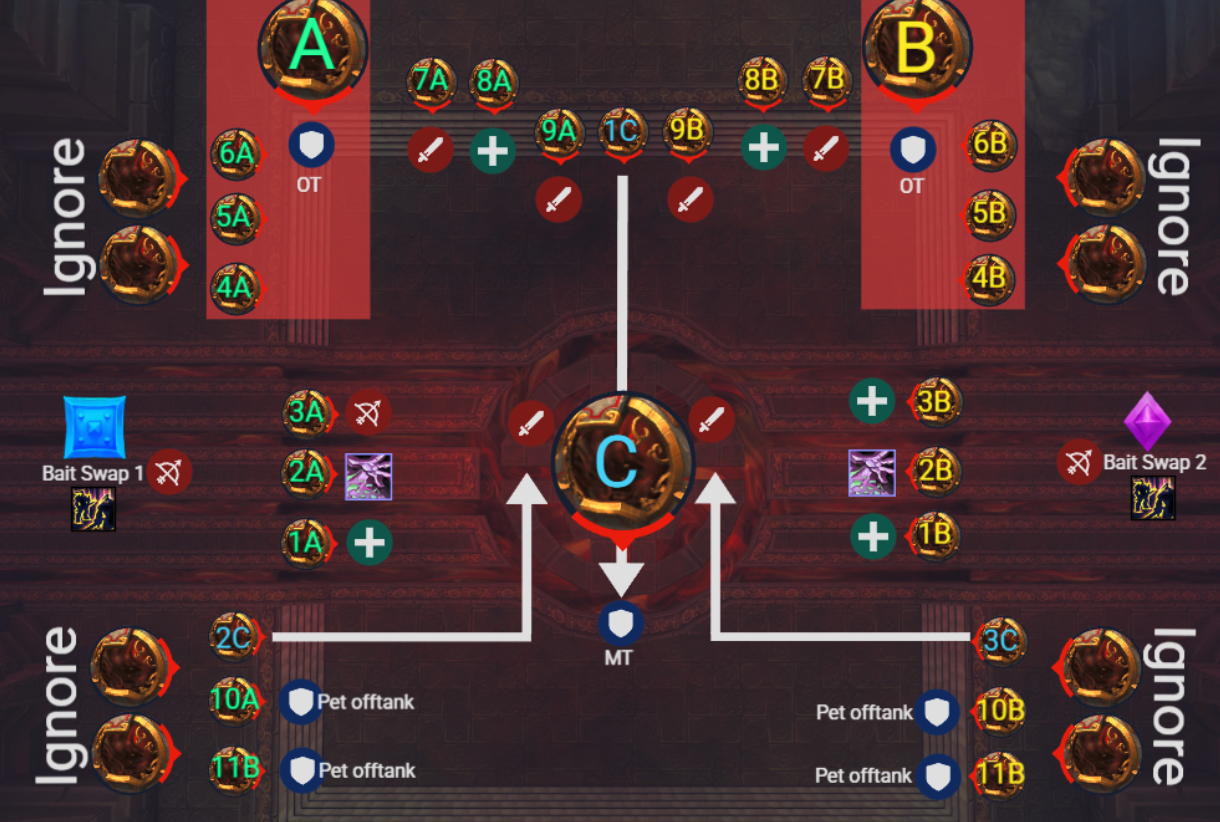
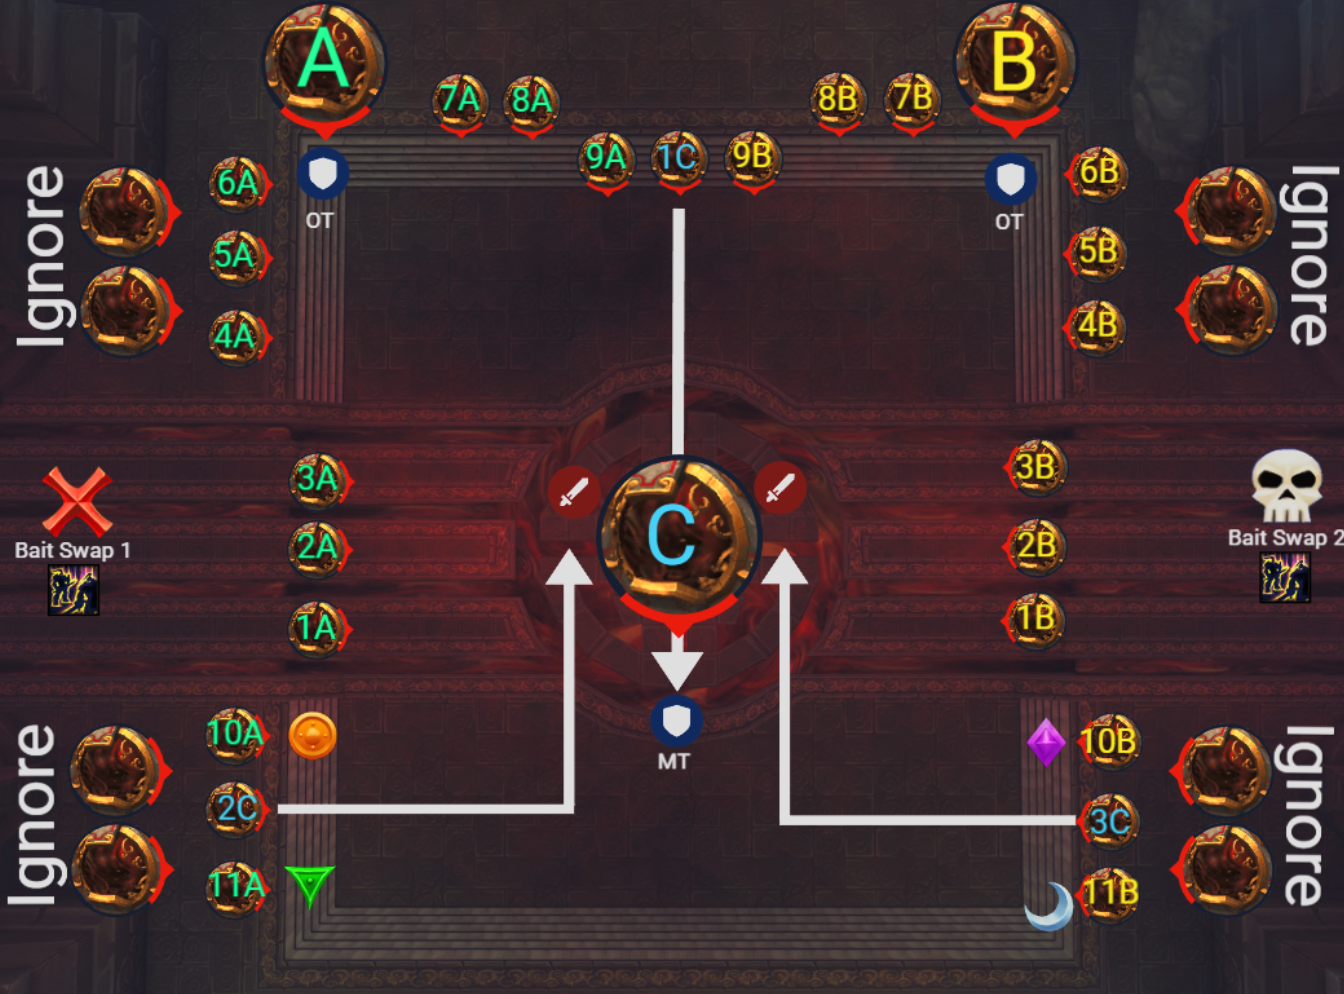
Animus und Qon Anpassung

diff --git a/throneofthunder/iron-qon.html b/throneofthunder/iron-qon.html
@@ -148,6 +148,7 @@
                                 <select class="assignment-select text-xs w-full" data-assignment-id="qon-soak1-2" data-assignment-pool="qon_soak_team"></select>
                                 <select class="assignment-select text-xs w-full" data-assignment-id="qon-soak1-3" data-assignment-pool="qon_soak_team"></select>
                                 <select class="assignment-select text-xs w-full" data-assignment-id="qon-soak1-4" data-assignment-pool="qon_soak_team"></select>
+                                <select class="assignment-select text-xs w-full" data-assignment-id="qon-soak1-5" data-assignment-pool="qon_soak_team"></select>
                             </div>
                         </div>
 
@@ -159,6 +160,7 @@
                                 <select class="assignment-select text-xs w-full" data-assignment-id="qon-soak2-2" data-assignment-pool="qon_soak_team"></select>
                                 <select class="assignment-select text-xs w-full" data-assignment-id="qon-soak2-3" data-assignment-pool="qon_soak_team"></select>
                                 <select class="assignment-select text-xs w-full" data-assignment-id="qon-soak2-4" data-assignment-pool="qon_soak_team"></select>
+                                <select class="assignment-select text-xs w-full" data-assignment-id="qon-soak2-5" data-assignment-pool="qon_soak_team"></select>
                             </div>
                         </div>
                     </div>
@@ -174,86 +176,146 @@
                     </ul>
                 </div>
 <div class="assignment-block">
-    <div class="flex justify-between items-center border-b border-slate-600 mb-2 pb-1">
-        <h4 class="text-lg font-bold text-yellow-400">✨ Positionierung (17 Spieler)</h4>
+    <div class="flex justify-between items-center border-b border-slate-600 mb-4 pb-2">
+        <h4 class="text-lg font-bold text-yellow-400">✨ Positionierung (Ranged & Healer)</h4>
+        <span class="text-xs text-gray-400">World Marker Gruppen (2 Spieler)</span>
     </div>
     
-    <div class="bg-slate-700 border border-slate-600 rounded-lg overflow-hidden">
-        <div class="grid grid-cols-1 md:grid-cols-2 lg:grid-cols-3 gap-px bg-slate-600">
-            
-            <div class="bg-slate-800 hover:bg-slate-750 p-1.5 flex items-center gap-2">
-                <span class="text-gray-500 font-mono text-xs w-4 text-right">1</span> 
-                <select class="assignment-select text-xs w-full border-none bg-slate-900/50" data-assignment-id="qon_pos_1" data-assignment-pool="twins_celestials"></select>
+    <div class="grid grid-cols-1 md:grid-cols-2 lg:grid-cols-4 gap-3 mb-6">
+        
+        <div class="bg-slate-700/40 rounded border border-gray-400/50 p-2">
+            <div class="text-xs font-bold text-gray-200 mb-1 flex items-center gap-2 border-b border-gray-600/50 pb-1">
+                <img src="raidicons/Moon.png" class="w-4 h-4 shadow-sm" alt="Moon">
+                R1 (Mond)
             </div>
-            <div class="bg-slate-800 hover:bg-slate-750 p-1.5 flex items-center gap-2">
-                <span class="text-gray-500 font-mono text-xs w-4 text-right">2</span> 
-                <select class="assignment-select text-xs w-full border-none bg-slate-900/50" data-assignment-id="qon_pos_2" data-assignment-pool="twins_celestials"></select>
+            <div class="space-y-1">
+                <select class="assignment-select text-xs w-full border-none bg-slate-900/60" data-assignment-id="qon_pos_1" data-assignment-pool="qon_ranged"></select>
+                <select class="assignment-select text-xs w-full border-none bg-slate-900/60" data-assignment-id="qon_pos_2" data-assignment-pool="qon_ranged"></select>
             </div>
-            <div class="bg-slate-800 hover:bg-slate-750 p-1.5 flex items-center gap-2">
-                <span class="text-gray-500 font-mono text-xs w-4 text-right">3</span> 
-                <select class="assignment-select text-xs w-full border-none bg-slate-900/50" data-assignment-id="qon_pos_3" data-assignment-pool="twins_celestials"></select>
-            </div>
-            <div class="bg-slate-800 hover:bg-slate-750 p-1.5 flex items-center gap-2">
-                <span class="text-gray-500 font-mono text-xs w-4 text-right">4</span> 
-                <select class="assignment-select text-xs w-full border-none bg-slate-900/50" data-assignment-id="qon_pos_4" data-assignment-pool="twins_celestials"></select>
-            </div>
-            <div class="bg-slate-800 hover:bg-slate-750 p-1.5 flex items-center gap-2">
-                <span class="text-gray-500 font-mono text-xs w-4 text-right">5</span> 
-                <select class="assignment-select text-xs w-full border-none bg-slate-900/50" data-assignment-id="qon_pos_5" data-assignment-pool="twins_celestials"></select>
-            </div>
-            <div class="bg-slate-800 hover:bg-slate-750 p-1.5 flex items-center gap-2">
-                <span class="text-gray-500 font-mono text-xs w-4 text-right">6</span> 
-                <select class="assignment-select text-xs w-full border-none bg-slate-900/50" data-assignment-id="qon_pos_6" data-assignment-pool="twins_celestials"></select>
-            </div>
-
-            <div class="bg-slate-800 hover:bg-slate-750 p-1.5 flex items-center gap-2">
-                <span class="text-gray-500 font-mono text-xs w-4 text-right">7</span> 
-                <select class="assignment-select text-xs w-full border-none bg-slate-900/50" data-assignment-id="qon_pos_7" data-assignment-pool="twins_celestials"></select>
-            </div>
-            <div class="bg-slate-800 hover:bg-slate-750 p-1.5 flex items-center gap-2">
-                <span class="text-gray-500 font-mono text-xs w-4 text-right">8</span> 
-                <select class="assignment-select text-xs w-full border-none bg-slate-900/50" data-assignment-id="qon_pos_8" data-assignment-pool="twins_celestials"></select>
-            </div>
-            <div class="bg-slate-800 hover:bg-slate-750 p-1.5 flex items-center gap-2">
-                <span class="text-gray-500 font-mono text-xs w-4 text-right">9</span> 
-                <select class="assignment-select text-xs w-full border-none bg-slate-900/50" data-assignment-id="qon_pos_9" data-assignment-pool="twins_celestials"></select>
-            </div>
-            <div class="bg-slate-800 hover:bg-slate-750 p-1.5 flex items-center gap-2">
-                <span class="text-gray-500 font-mono text-xs w-4 text-right">10</span> 
-                <select class="assignment-select text-xs w-full border-none bg-slate-900/50" data-assignment-id="qon_pos_10" data-assignment-pool="twins_celestials"></select>
-            </div>
-            <div class="bg-slate-800 hover:bg-slate-750 p-1.5 flex items-center gap-2">
-                <span class="text-gray-500 font-mono text-xs w-4 text-right">11</span> 
-                <select class="assignment-select text-xs w-full border-none bg-slate-900/50" data-assignment-id="qon_pos_11" data-assignment-pool="twins_celestials"></select>
-            </div>
-            <div class="bg-slate-800 hover:bg-slate-750 p-1.5 flex items-center gap-2">
-                <span class="text-gray-500 font-mono text-xs w-4 text-right">12</span> 
-                <select class="assignment-select text-xs w-full border-none bg-slate-900/50" data-assignment-id="qon_pos_12" data-assignment-pool="twins_celestials"></select>
-            </div>
-
-            <div class="bg-slate-800 hover:bg-slate-750 p-1.5 flex items-center gap-2">
-                <span class="text-gray-500 font-mono text-xs w-4 text-right">13</span> 
-                <select class="assignment-select text-xs w-full border-none bg-slate-900/50" data-assignment-id="qon_pos_13" data-assignment-pool="twins_celestials"></select>
-            </div>
-            <div class="bg-slate-800 hover:bg-slate-750 p-1.5 flex items-center gap-2">
-                <span class="text-gray-500 font-mono text-xs w-4 text-right">14</span> 
-                <select class="assignment-select text-xs w-full border-none bg-slate-900/50" data-assignment-id="qon_pos_14" data-assignment-pool="twins_celestials"></select>
-            </div>
-            <div class="bg-slate-800 hover:bg-slate-750 p-1.5 flex items-center gap-2">
-                <span class="text-gray-500 font-mono text-xs w-4 text-right">15</span> 
-                <select class="assignment-select text-xs w-full border-none bg-slate-900/50" data-assignment-id="qon_pos_15" data-assignment-pool="twins_celestials"></select>
-            </div>
-            <div class="bg-slate-800 hover:bg-slate-750 p-1.5 flex items-center gap-2">
-                <span class="text-gray-500 font-mono text-xs w-4 text-right">16</span> 
-                <select class="assignment-select text-xs w-full border-none bg-slate-900/50" data-assignment-id="qon_pos_16" data-assignment-pool="twins_celestials"></select>
-            </div>
-            <div class="bg-slate-800 hover:bg-slate-750 p-1.5 flex items-center gap-2 lg:col-span-1">
-                <span class="text-gray-500 font-mono text-xs w-4 text-right">17</span> 
-                <select class="assignment-select text-xs w-full border-none bg-slate-900/50" data-assignment-id="qon_pos_17" data-assignment-pool="twins_celestials"></select>
-            </div>
-            
-            <div class="bg-slate-800/50 hidden lg:block"></div>
         </div>
+
+        <div class="bg-slate-700/40 rounded border border-purple-500/50 p-2">
+            <div class="text-xs font-bold text-purple-300 mb-1 flex items-center gap-2 border-b border-gray-600/50 pb-1">
+                <img src="raidicons/Diamond.png" class="w-4 h-4 shadow-sm" alt="Diamond">
+                R2 (Diamant)
+            </div>
+            <div class="space-y-1">
+                <select class="assignment-select text-xs w-full border-none bg-slate-900/60" data-assignment-id="qon_pos_3" data-assignment-pool="qon_ranged"></select>
+                <select class="assignment-select text-xs w-full border-none bg-slate-900/60" data-assignment-id="qon_pos_4" data-assignment-pool="qon_ranged"></select>
+            </div>
+        </div>
+
+        <div class="bg-slate-700/40 rounded border border-red-500/50 p-2">
+            <div class="text-xs font-bold text-red-400 mb-1 flex items-center gap-2 border-b border-gray-600/50 pb-1">
+                <img src="raidicons/Cross.png" class="w-4 h-4 shadow-sm" alt="Cross">
+                H1 (Kreuz)
+            </div>
+            <div class="space-y-1">
+                <select class="assignment-select text-xs w-full border-none bg-slate-900/60" data-assignment-id="qon_pos_5" data-assignment-pool="qon_ranged"></select>
+                <select class="assignment-select text-xs w-full border-none bg-slate-900/60" data-assignment-id="qon_pos_6" data-assignment-pool="qon_ranged"></select>
+            </div>
+        </div>
+
+        <div class="bg-slate-700/40 rounded border border-blue-500/50 p-2">
+            <div class="text-xs font-bold text-blue-400 mb-1 flex items-center gap-2 border-b border-gray-600/50 pb-1">
+                <img src="raidicons/Square.png" class="w-4 h-4 shadow-sm" alt="Square">
+                R3 (Quadrat)
+            </div>
+            <div class="space-y-1">
+                <select class="assignment-select text-xs w-full border-none bg-slate-900/60" data-assignment-id="qon_pos_7" data-assignment-pool="qon_ranged"></select>
+                <select class="assignment-select text-xs w-full border-none bg-slate-900/60" data-assignment-id="qon_pos_8" data-assignment-pool="qon_ranged"></select>
+            </div>
+        </div>
+
+        <div class="bg-slate-700/40 rounded border border-orange-500/50 p-2">
+            <div class="text-xs font-bold text-orange-400 mb-1 flex items-center gap-2 border-b border-gray-600/50 pb-1">
+                <img src="raidicons/Circle.png" class="w-4 h-4 shadow-sm" alt="Circle">
+                R4 (Kreis)
+            </div>
+            <div class="space-y-1">
+                <select class="assignment-select text-xs w-full border-none bg-slate-900/60" data-assignment-id="qon_pos_9" data-assignment-pool="qon_ranged"></select>
+                <select class="assignment-select text-xs w-full border-none bg-slate-900/60" data-assignment-id="qon_pos_10" data-assignment-pool="qon_ranged"></select>
+            </div>
+        </div>
+
+        <div class="bg-slate-700/40 rounded border border-slate-200/50 p-2">
+            <div class="text-xs font-bold text-white mb-1 flex items-center gap-2 border-b border-gray-600/50 pb-1">
+                <img src="raidicons/Skull.png" class="w-4 h-4 shadow-sm" alt="Skull">
+                R5 (Totenkopf)
+            </div>
+            <div class="space-y-1">
+                <select class="assignment-select text-xs w-full border-none bg-slate-900/60" data-assignment-id="qon_pos_11" data-assignment-pool="qon_ranged"></select>
+                <select class="assignment-select text-xs w-full border-none bg-slate-900/60" data-assignment-id="qon_pos_12" data-assignment-pool="qon_ranged"></select>
+            </div>
+        </div>
+
+        <div class="bg-slate-700/40 rounded border border-green-500/50 p-2">
+            <div class="text-xs font-bold text-green-400 mb-1 flex items-center gap-2 border-b border-gray-600/50 pb-1">
+                <img src="raidicons/Triangle.png" class="w-4 h-4 shadow-sm" alt="Triangle">
+                H2 (Dreieck)
+            </div>
+            <div class="space-y-1">
+                <select class="assignment-select text-xs w-full border-none bg-slate-900/60" data-assignment-id="qon_pos_13" data-assignment-pool="qon_ranged"></select>
+                <select class="assignment-select text-xs w-full border-none bg-slate-900/60" data-assignment-id="qon_pos_14" data-assignment-pool="qon_ranged"></select>
+            </div>
+        </div>
+
+        <div class="bg-slate-700/40 rounded border border-yellow-500/50 p-2">
+            <div class="text-xs font-bold text-yellow-300 mb-1 flex items-center gap-2 border-b border-gray-600/50 pb-1">
+                <img src="raidicons/Star.png" class="w-4 h-4 shadow-sm" alt="Star">
+                R6 (Stern)
+            </div>
+            <div class="space-y-1">
+                <select class="assignment-select text-xs w-full border-none bg-slate-900/60" data-assignment-id="qon_pos_15" data-assignment-pool="qon_ranged"></select>
+                <select class="assignment-select text-xs w-full border-none bg-slate-900/60" data-assignment-id="qon_pos_16" data-assignment-pool="qon_ranged"></select>
+            </div>
+        </div>
+
+    </div>
+
+    <div class="flex justify-between items-center border-b border-slate-600 mb-4 pb-2 mt-6">
+        <h4 class="text-lg font-bold text-red-400">⚔ Melee Gruppen (M1-M3)</h4>
+        <span class="text-xs text-gray-400">Max 4 Spieler pro Gruppe</span>
+    </div>
+
+    <div class="grid grid-cols-1 md:grid-cols-3 gap-4">
+        
+        <div class="bg-slate-700/40 rounded border border-slate-500 p-2">
+            <div class="text-xs font-bold text-gray-300 mb-1 border-b border-gray-600 pb-1 text-center bg-slate-800 rounded-t">
+                M1
+            </div>
+            <div class="space-y-1 pt-1">
+                <select class="assignment-select text-xs w-full border-none bg-slate-900/60" data-assignment-id="qon_pos_17" data-assignment-pool="qon_melee"></select>
+                <select class="assignment-select text-xs w-full border-none bg-slate-900/60" data-assignment-id="qon_pos_18" data-assignment-pool="qon_melee"></select>
+                <select class="assignment-select text-xs w-full border-none bg-slate-900/60" data-assignment-id="qon_pos_19" data-assignment-pool="qon_melee"></select>
+                <select class="assignment-select text-xs w-full border-none bg-slate-900/60" data-assignment-id="qon_pos_20" data-assignment-pool="qon_melee"></select>
+            </div>
+        </div>
+
+        <div class="bg-slate-700/40 rounded border border-slate-500 p-2">
+            <div class="text-xs font-bold text-gray-300 mb-1 border-b border-gray-600 pb-1 text-center bg-slate-800 rounded-t">
+                M2
+            </div>
+            <div class="space-y-1 pt-1">
+                <select class="assignment-select text-xs w-full border-none bg-slate-900/60" data-assignment-id="qon_pos_21" data-assignment-pool="qon_melee"></select>
+                <select class="assignment-select text-xs w-full border-none bg-slate-900/60" data-assignment-id="qon_pos_22" data-assignment-pool="qon_melee"></select>
+                <select class="assignment-select text-xs w-full border-none bg-slate-900/60" data-assignment-id="qon_pos_23" data-assignment-pool="qon_melee"></select>
+                <select class="assignment-select text-xs w-full border-none bg-slate-900/60" data-assignment-id="qon_pos_24" data-assignment-pool="qon_melee"></select>
+            </div>
+        </div>
+
+        <div class="bg-slate-700/40 rounded border border-slate-500 p-2">
+            <div class="text-xs font-bold text-gray-300 mb-1 border-b border-gray-600 pb-1 text-center bg-slate-800 rounded-t">
+                M3
+            </div>
+            <div class="space-y-1 pt-1">
+                <select class="assignment-select text-xs w-full border-none bg-slate-900/60" data-assignment-id="qon_pos_25" data-assignment-pool="qon_melee"></select>
+                <select class="assignment-select text-xs w-full border-none bg-slate-900/60" data-assignment-id="qon_pos_26" data-assignment-pool="qon_melee"></select>
+                <select class="assignment-select text-xs w-full border-none bg-slate-900/60" data-assignment-id="qon_pos_27" data-assignment-pool="qon_melee"></select>
+                <select class="assignment-select text-xs w-full border-none bg-slate-900/60" data-assignment-id="qon_pos_28" data-assignment-pool="qon_melee"></select>
+            </div>
+        </div>
+
     </div>
 </div>
 </div>
